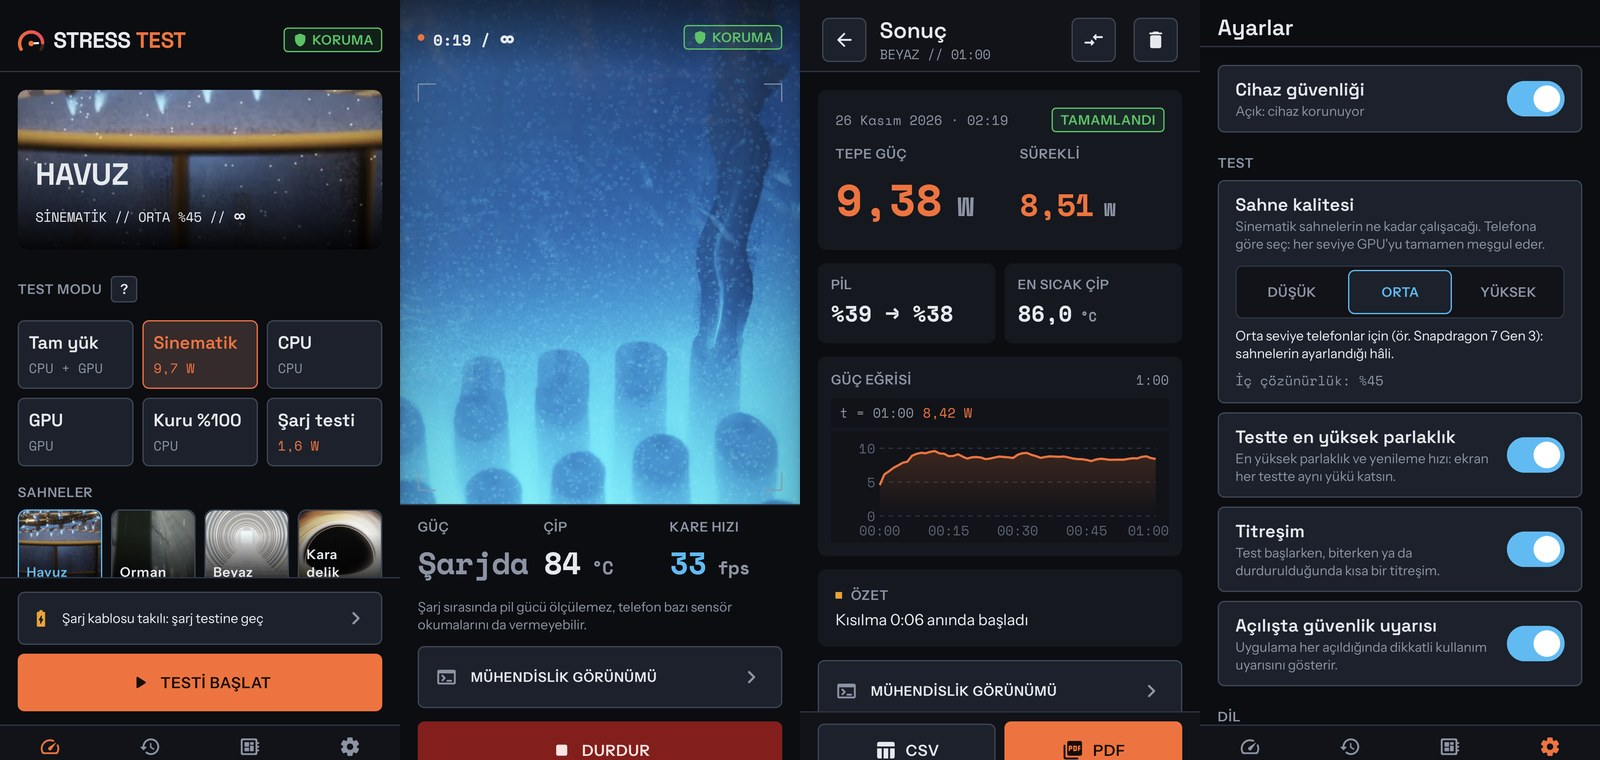
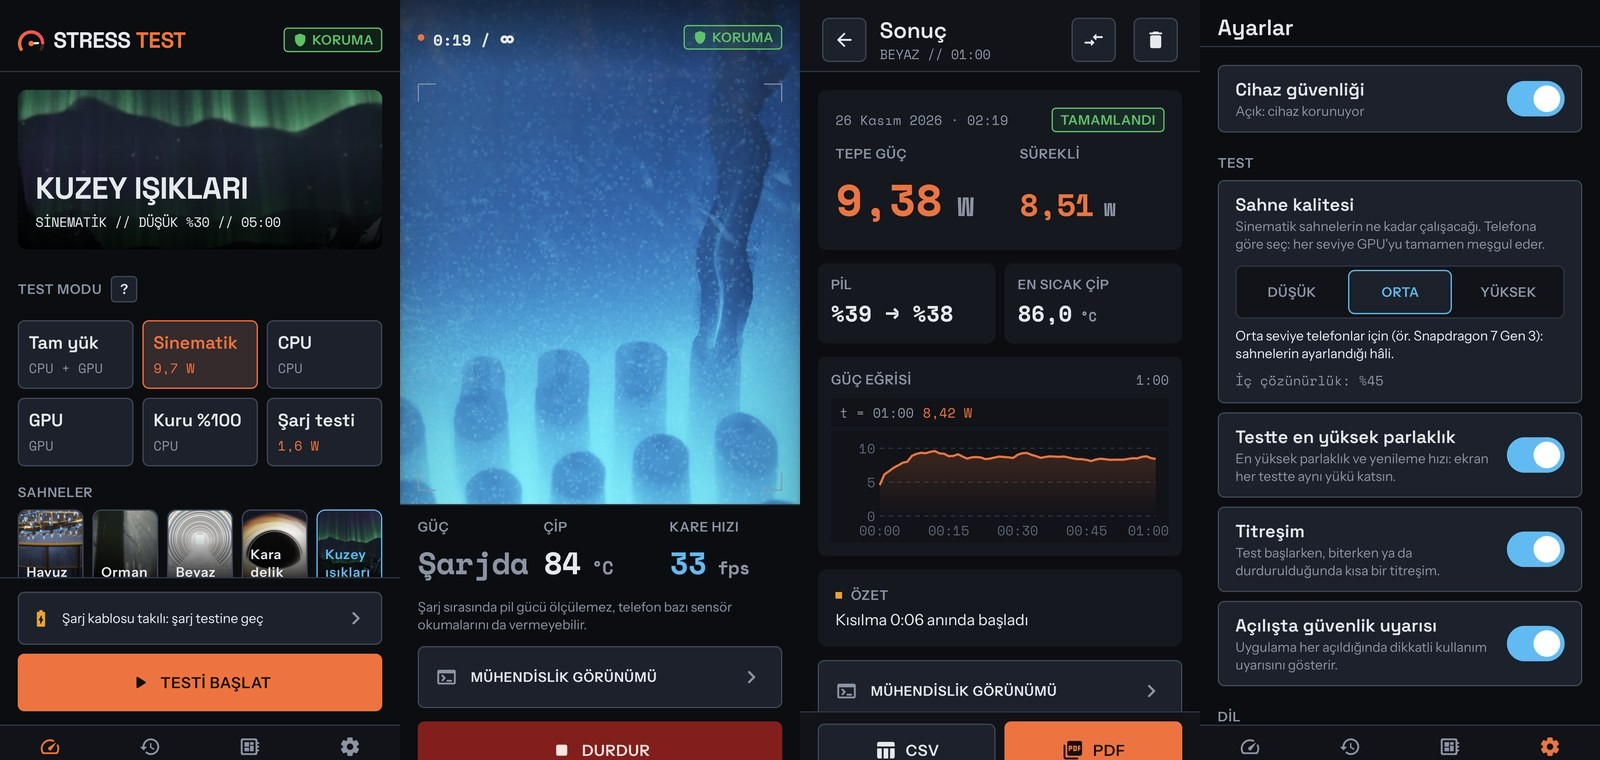
docs: open with what the tool is and bring the docs up to date
Both READMEs now open by saying this is an engineering test tool for a
phone's power, heat and performance, not a game or an entertainment app,
and that it runs the phone at full load on purpose. The cover shows all
five scenes and the app picture the current home screen. The documents
also stop saying the app asks for no permissions: 0.3.0 added the
notification permission for the charge test. Tool versions, the security
support table and the release examples follow the code.

Assisted-by: Claude Code

Changed region(s): [[0.0, 0.0908, 0.25, 0.3026], [0.0, 0.6658, 0.25, 0.7566]]

diff --git a/README.tr.md b/README.tr.md
@@ -2,11 +2,11 @@
 
 # Stress Test
 
-**Android telefonlar için stres testi ve benchmark: bir telefonun gerçekten çekebildiği en yüksek gücü bulmak, bunu yaparken de göze iyi görünmek için.**
+**Android telefonlar için mühendislik test aracı: telefonu gerçekten çekebildiği en yüksek güce kadar yükler; gücünü, ısınmasını ve performansını ölçer.**
 
 [![Derleme ve doğrulama](https://github.com/OzcanOrhanDemirci/stress_test/actions/workflows/ci.yml/badge.svg)](https://github.com/OzcanOrhanDemirci/stress_test/actions/workflows/ci.yml)
 [![Yayın](https://github.com/OzcanOrhanDemirci/stress_test/actions/workflows/release.yml/badge.svg)](https://github.com/OzcanOrhanDemirci/stress_test/actions/workflows/release.yml)
-[![Kotlin](https://img.shields.io/badge/Kotlin-2.4.20-7F52FF?logo=kotlin&logoColor=white)](https://kotlinlang.org)
+[![Kotlin](https://img.shields.io/badge/Kotlin-2.4.21-7F52FF?logo=kotlin&logoColor=white)](https://kotlinlang.org)
 [![Jetpack Compose](https://img.shields.io/badge/Jetpack%20Compose-Material%203-4285F4?logo=jetpackcompose&logoColor=white)](https://developer.android.com/compose)
 [![C++20](https://img.shields.io/badge/C%2B%2B-20-00599C?logo=cplusplus&logoColor=white)](app/src/main/cpp)
 [![AArch64 assembly](https://img.shields.io/badge/AArch64-assembly-555555)](app/src/main/cpp/cpu)
@@ -18,7 +18,7 @@
 
 Referans telefonda tam yükte **10,1 W** · aynı çekirdeklerde "kuru %100"ün **2,6 katı** güç · üç kalitede beş sinematik sahne · şarj testi · cihaz güvenliği · PDF rapor
 
-**[Son paketi indir](https://github.com/OzcanOrhanDemirci/stress_test/releases/latest)** · 64-bit Android 10 ve üstü · izin yok, hiçbir şey toplanmaz
+**[Son paketi indir](https://github.com/OzcanOrhanDemirci/stress_test/releases/latest)** · 64-bit Android 10 ve üstü · ağa çıkmaz, hiçbir şey toplanmaz
 
 [Kurulum](#kurulum) · [Uyumluluk](#uyumluluk) · [Soru](#soru) · [Sonuçlar](#sonuçlar) · [Modlar](#modlar) · [Şarj testi](#şarj-testi) · [Sahneler](#sinematik-sahneler) · [Uygulama](#uygulama) · [Cihaz güvenliği](#cihaz-güvenliği) · [Güç nasıl ölçülüyor](#güç-nasıl-ölçülüyor) · [Yük nasıl üretiliyor](#yük-nasıl-üretiliyor) · [Mimari](#mimari) · [Derleme](#derleme)
 
@@ -26,14 +26,20 @@ Referans telefonda tam yükte **10,1 W** · aynı çekirdeklerde "kuru %100"ün 
 
 <br />
 
-<img src="docs/images/cover.jpg" alt="Telefonda üç sinematik sahne: reaktör havuzu, yağmur ormanı ve beyaz dünya" width="760" />
+<img src="docs/images/cover.jpg" alt="Beş sinematik sahne: reaktör havuzu, yağmur ormanı, beyaz dünya, kara delik ve kuzey ışıkları" width="100%" />
 
 </div>
 
 ---
 
-Stress Test, Android telefonun yük altında pilden çektiği gücü ve şarj olurken
-pile giren gücü ölçer. Referans cihaz **Honor 400**. Aşağıdaki güç değerleri bu
+**Stress Test, bir Android telefonun gücünü, ısınmasını ve performansını
+mühendislik açısından incelemek için yapılmış bir test aracıdır.** Bir oyun
+değildir; son kullanıcının eğlence ya da hobi için kullanacağı bir uygulama da
+değildir. Telefonu bilerek tam yükte çalıştırır, çok ısıtır ve pilini hızla
+tüketir; amaç, telefonun bu yük altında ne yaptığını ölçmek ve karşılaştırmaktır.
+Sinematik sahneler de gösteri için değil, kare hızı ölçülen bir grafik yüküdür.
+
+Telefonun yük altında pilden çektiği gücü ve şarj olurken pile giren gücü ölçer. Referans cihaz **Honor 400**. Aşağıdaki güç değerleri bu
 telefonda ölçüldü ve stres testi yükleri bu ölçümlere göre seçildi.
 
 > [!WARNING]
@@ -295,8 +301,10 @@ ayarından da seçebilirsin.
    (sertifika [SECURITY.md](SECURITY.md#verifying-a-package)'de).
 3. Telefonda aç; Android sorduğunda bu kaynaktan yüklemeye izin ver.
 
-Telefon gereksinimleri [Uyumluluk](#uyumluluk) bölümünde. Uygulama hiçbir izin istemez
-ve ağa çıkamaz. Bu kaynaktan yayın anahtarı olmadan derlenen paket debug
+Telefon gereksinimleri [Uyumluluk](#uyumluluk) bölümünde. Uygulama ağa çıkamaz.
+Tek izni bildirim içindir: Android 13 ve üstünde şarj testi başlarken sorulur,
+yalnız testin pili doldurduğunu söylemek için kullanılır; reddetmek başka hiçbir
+şeyi değiştirmez. Bu kaynaktan yayın anahtarı olmadan derlenen paket debug
 anahtarıyla imzalanır ve ikisi birbirini güncelleyemez: birini kurmadan önce
 öbürünü kaldırmak gerekir, bu da onun test geçmişini siler.
 
@@ -467,7 +475,7 @@ bölümünde tam olarak yazılı; ölçümlerin kendisi [docs/OLCUMLER.md](docs/
 ```bash
 ./gradlew testDebugUnitTest            # JVM testleri
 ./gradlew lintDebug                    # Android Lint, hata derlemeyi düşürür
-./gradlew connectedDebugAndroidTest    # bağlı telefonda testler
+./gradlew connectedDebugAndroidTest    # bağlı telefonda testler (sonunda debug uygulamayı geçmişiyle birlikte kaldırır)
 ```
 
 JVM testleri pil gücünü, akımın birimini ve yönünü, şarj testinin adımlarını ve
@@ -476,9 +484,9 @@ karşılaştırmayı, CSV'yi ve eski kayıtların açılmasını kapsıyor. Okum
 arşivdeki 104 Honor 400 lab testinin verileri yeniden işlenerek de sınandı.
 
 Bağlı telefonda çalışan testler CPU hesaplarını, GPU yakıcılarını, sahne
-çizimini, sensörlerin bulunmasını ve yük tariflerini sınar. 0.3.0 lab
-testlerinde Honor 400 dört sahneyi de Düşük, Orta ve Yüksek'te seçilen ayarlarda
-hatasız çizdi; 0.3.0'dan sonra eklenen kuzey ışıkları da öyle. Diğer modellerin
+çizimini, sensörlerin bulunmasını ve yük tariflerini sınar. Lab
+testlerinde Honor 400 beş sahnenin hepsini Düşük, Orta ve Yüksek'te seçilen
+ayarlarda hatasız çizdi. Diğer modellerin
 uyumluluğu kâğıt üzerinde değerlendirildi.
 Şarj testi otomatik testlerle sınandı. Gerçek şarj cihazı ve kablolarla ölçüm
 henüz yapılmadı. [Ölçüm kaydı](docs/OLCUMLER.md)
@@ -530,10 +538,10 @@ python tools/scene_preview.py --scene white --times 3,18,30,44                  
 
 | Konu | Seçim |
 | --- | --- |
-| Uygulama | Kotlin 2.4.20, Material 3 ile Jetpack Compose, coroutines, kotlinx.serialization, Space Grotesk, Instrument Sans ve Space Mono |
+| Uygulama | Kotlin 2.4.21, Material 3 ile Jetpack Compose, coroutines, kotlinx.serialization, Space Grotesk, Instrument Sans ve Space Mono |
 | Yerel kod | NDK ve CMake üzerinden C++20 ve AArch64 assembly, JNI |
 | Grafik | Vulkan 1.1 (varsa 1.2 özellikleri), derleme sırasında SPIR-V 1.3'e derlenip gömülen GLSL |
-| Derleme | Gradle 9.8.0, Android Gradle Plugin 9.4.1 |
+| Derleme | Gradle 9.9.2, Android Gradle Plugin 9.5.2 |
 | SDK | derleme 37.1, hedef 36 (Android 16), en düşük 29 (Android 10) |
 | Araçlar | Node.js (lab oturumları), moderngl ile Python (sahne önizlemesi, yük üretici) |
 
@@ -542,7 +550,7 @@ python tools/scene_preview.py --scene white --times 3,18,30,44                  
 Bir etiket göndermek derler, test eder, imzalar ve yayınlar:
 
 ```bash
-git tag -a v0.3.0 -m "Stress Test 0.3.0" && git push origin v0.3.0
+git tag -a v1.0.0 -m "Stress Test 1.0.0" && git push origin v1.0.0
 ```
 
 İş akışı, `gradle.properties`'te yazılı sürümle uyuşmayan bir etiketi ya da
@@ -571,9 +579,10 @@ için bir issue formu var. Katkı belgeleri İngilizcedir.
 
 ## Durum
 
-**Kaynak kodun sürümü 0.3.0.** Bu sürümle yeni arayüz, şarj testi, kara delik
-sahnesi ve telefonlar arasındaki farklara yönelik düzeltmeler geliyor.
-[Değişiklik günlüğü](CHANGELOG.md#030--2026-11-26)
+**Sürüm 1.0.0**, ilk kararlı sürüm: şarj testiyle birlikte altı mod, üç kalitede
+beş sinematik sahne, cihaz güvenliği, PDF ve CSV raporuyla analiz ve ölçü
+aleti görünümlü arayüz. Elde denenen tek telefon Honor 400.
+[Değişiklik günlüğü](CHANGELOG.md#100---2026-11-26)
 
 ## Lisans
 

diff --git a/README.md b/README.md
@@ -2,11 +2,11 @@
 
 # Stress Test
 
-**A stress test and benchmark for Android phones, built to find the most power a phone can really draw, and to look good while it does.**
+**An engineering test tool for Android phones: it loads a phone up to the most power it can really draw, and measures its power, heat and performance.**
 
 [![Build and verify](https://github.com/OzcanOrhanDemirci/stress_test/actions/workflows/ci.yml/badge.svg)](https://github.com/OzcanOrhanDemirci/stress_test/actions/workflows/ci.yml)
 [![Release](https://github.com/OzcanOrhanDemirci/stress_test/actions/workflows/release.yml/badge.svg)](https://github.com/OzcanOrhanDemirci/stress_test/actions/workflows/release.yml)
-[![Kotlin](https://img.shields.io/badge/Kotlin-2.4.20-7F52FF?logo=kotlin&logoColor=white)](https://kotlinlang.org)
+[![Kotlin](https://img.shields.io/badge/Kotlin-2.4.21-7F52FF?logo=kotlin&logoColor=white)](https://kotlinlang.org)
 [![Jetpack Compose](https://img.shields.io/badge/Jetpack%20Compose-Material%203-4285F4?logo=jetpackcompose&logoColor=white)](https://developer.android.com/compose)
 [![C++20](https://img.shields.io/badge/C%2B%2B-20-00599C?logo=cplusplus&logoColor=white)](app/src/main/cpp)
 [![AArch64 assembly](https://img.shields.io/badge/AArch64-assembly-555555)](app/src/main/cpp/cpu)
@@ -18,7 +18,7 @@
 
 **10.1 W** at full load on the reference phone · **2.6×** the power of an "idle 100 %" on the same cores · five cinematic scenes at three quality levels · charge test · device safety · a PDF report
 
-**[Download the latest package](https://github.com/OzcanOrhanDemirci/stress_test/releases/latest)** · 64-bit Android 10 and above · no permissions, nothing collected
+**[Download the latest package](https://github.com/OzcanOrhanDemirci/stress_test/releases/latest)** · 64-bit Android 10 and above · no network access, nothing collected
 
 [Install](#install) · [Compatibility](#compatibility) · [The question](#the-question) · [Results](#results) · [Modes](#modes) · [Charge test](#charge-test) · [Scenes](#the-cinematic-scenes) · [The app](#the-app) · [Device safety](#device-safety) · [How it measures](#how-power-is-measured) · [How it loads](#how-the-load-is-made) · [Architecture](#architecture) · [Building](#building)
 
@@ -26,14 +26,21 @@
 
 <br />
 
-<img src="docs/images/cover.jpg" alt="Three cinematic scenes on the phone: the reactor pool, the rain forest and the white world" width="760" />
+<img src="docs/images/cover.jpg" alt="The five cinematic scenes: the reactor pool, the rain forest, the white world, the black hole and the northern lights" width="100%" />
 
 </div>
 
 ---
 
-Stress Test measures how much power an Android phone draws under load and how
-much reaches its battery while charging. The **Honor 400** is the reference
+**Stress Test is an engineering tool for examining an Android phone's power,
+heat and performance.** It is not a game, and it is not an app for entertainment
+or everyday use. It deliberately runs the phone at full load, makes it very hot
+and drains its battery quickly, so that what the phone does under that load can
+be measured and compared. Even the cinematic scenes are a graphics load with
+their frame rate measured, not a show.
+
+It measures how much power the phone draws under load and how much reaches its
+battery while charging. The **Honor 400** is the reference
 device. The power figures below come from that phone, and its measurements
 guided the choice of stress loads.
 
@@ -298,8 +305,10 @@ per-app language settings.
 3. Open it on the phone, and allow installing from that source when Android
    asks.
 
-See [Compatibility](#compatibility) for phone requirements. The app asks for no
-permissions and cannot reach the network. A package built from this source
+See [Compatibility](#compatibility) for phone requirements. The app cannot
+reach the network. Its one permission is for notifications, asked for when a
+charge test starts on Android 13 and later, and used only to say that the test
+filled the battery; declining it changes nothing else. A package built from this source
 without the release key is signed with a debug key, and the two cannot update
 each other: uninstall one before installing the other, which also removes its
 test history.
@@ -468,7 +477,7 @@ with the measurement that settled it; the measurements themselves are in
 ```bash
 ./gradlew testDebugUnitTest            # JVM tests
 ./gradlew lintDebug                    # Android Lint, errors fail the build
-./gradlew connectedDebugAndroidTest    # tests on a connected phone
+./gradlew connectedDebugAndroidTest    # tests on a connected phone (uninstalls the debug app afterwards, with its history)
 ```
 
 JVM tests cover battery power and current conventions, charge-test phases and
@@ -477,9 +486,9 @@ and loading old records. The telemetry changes were also checked by replaying
 104 archived Honor 400 lab tests. That replay used existing measurements.
 
 The instrumented suite checks CPU work, GPU burners, scene rendering, sensor
-discovery and load recipes on a connected phone. In the 0.3.0 lab checks on the
-Honor 400, all four scenes reached the requested settings at Low, Medium and
-High with zero errors, and so did the northern lights, added after 0.3.0.
+discovery and load recipes on a connected phone. In lab checks on the Honor 400,
+all five scenes reached the requested settings at Low, Medium and High with
+zero errors.
 Compatibility on other models was assessed on paper.
 The charging test has automated coverage. Measurements with real chargers and
 cables are pending. [Measurement log](docs/OLCUMLER.md)
@@ -530,10 +539,10 @@ python tools/scene_preview.py --scene white --times 3,18,30,44                  
 
 | Concern | Choice |
 | --- | --- |
-| App | Kotlin 2.4.20, Jetpack Compose with Material 3, coroutines, kotlinx.serialization, Space Grotesk, Instrument Sans and Space Mono |
+| App | Kotlin 2.4.21, Jetpack Compose with Material 3, coroutines, kotlinx.serialization, Space Grotesk, Instrument Sans and Space Mono |
 | Native | C++20 and AArch64 assembly through the NDK and CMake, JNI |
 | Graphics | Vulkan 1.1 (1.2 features where present), GLSL compiled to SPIR-V 1.3 at build time and embedded |
-| Build | Gradle 9.8.0, Android Gradle Plugin 9.4.1 |
+| Build | Gradle 9.9.2, Android Gradle Plugin 9.5.2 |
 | SDK | compile 37.1, target 36 (Android 16), minimum 29 (Android 10) |
 | Tools | Node.js (lab sessions), Python with moderngl (scene preview, kernel generator) |
 
@@ -542,7 +551,7 @@ python tools/scene_preview.py --scene white --times 3,18,30,44                  
 Pushing a tag builds, tests, signs and publishes:
 
 ```bash
-git tag -a v0.3.0 -m "Stress Test 0.3.0" && git push origin v0.3.0
+git tag -a v1.0.0 -m "Stress Test 1.0.0" && git push origin v1.0.0
 ```
 
 The pipeline refuses to publish a tag that disagrees with the version declared
@@ -572,9 +581,11 @@ there is an issue form for them.
 
 ## Status
 
-**Source version 0.3.0.** This version brings the redesigned interface, the
-charge test, the black hole scene and better handling of differences between
-phones. [Changelog](CHANGELOG.md#030--2026-11-26)
+**Version 1.0.0**, the first stable release: six modes including the charge
+test, five cinematic scenes at three quality levels, device safety, the analysis
+with its PDF and CSV report, and the instrument-style interface. The Honor 400
+is the only phone it was tested on in hand.
+[Changelog](CHANGELOG.md#100---2026-11-26)
 
 ## Licence
 

diff --git a/SECURITY.md b/SECURITY.md
@@ -5,15 +5,17 @@
 Knowing the shape of the application is most of the answer to what can go wrong
 with it, so it is worth stating plainly.
 
-- **It asks for no permissions.** The manifest declares none. One appears in the
-  built package, `dev.ozcan.stress.DYNAMIC_RECEIVER_NOT_EXPORTED_PERMISSION`: it
-  is added during the build by `androidx.core`, it is declared at the
+- **It asks for one permission, to post notifications.** It is asked for when a
+  charge test starts, on Android 13 and later, and used only to say that the
+  test filled the battery; declining it changes nothing else. One more appears
+  in the built package, `dev.ozcan.stress.DYNAMIC_RECEIVER_NOT_EXPORTED_PERMISSION`:
+  it is added during the build by `androidx.core`, it is declared at the
   `signature` protection level and it is named after this application, so
-  nothing outside this package can hold it. That one is all of them, and reading
-  them out of the package is the way to confirm it:
+  nothing outside this package can hold it. Those two are all of them, and
+  reading them out of the package is the way to confirm it:
 
   ```bash
-  aapt2 dump permissions stress-test-0.2.0.apk
+  aapt2 dump permissions stress-test-1.0.0.apk
   ```
 
 - **It cannot reach the network.** Without the `INTERNET` permission there is no
@@ -61,8 +63,8 @@ The most recent release is the supported one. Older versions receive nothing.
 
 | Version | Supported |
 | --- | --- |
-| 0.2.x | Yes |
-| < 0.2 | No |
+| 1.0.x | Yes |
+| < 1.0 | No |
 
 ## Reporting a vulnerability
 
@@ -88,7 +90,7 @@ Every release is signed with the same key. Before installing a package that
 claims to be this application, check what signed it:
 
 ```bash
-apksigner verify --print-certs stress-test-0.2.0.apk
+apksigner verify --print-certs stress-test-1.0.0.apk
 ```
 
 The certificate should read:

diff --git a/docs/FDROID.md b/docs/FDROID.md
@@ -21,7 +21,7 @@ takes from this repository:
    summary and descriptions (README.md has them, in English), and the
    versions to build.
 2. The build server honours the versions the project pins itself:
-   the Gradle wrapper (9.8.0), the Android Gradle Plugin (9.4.1) and
+   the Gradle wrapper (9.9.2), the Android Gradle Plugin (9.5.2) and
    `ndkVersion` (29.0.14206865) are all declared in the repository, and
    AGP installs exactly that NDK. The kernels' assembly is built by the
    assembler the measurements were made with, so a build that swapped

diff --git a/docs/RELEASE.md b/docs/RELEASE.md
@@ -21,9 +21,9 @@ Pushing a tag that starts with `v` runs `.github/workflows/release.yml`, which:
 10. Deletes the key.
 
 ```bash
-# gradle.properties says stress.versionName=0.3.0 and CHANGELOG.md has a [0.3.0] section
-git tag -a v0.3.0 -m "Stress Test 0.3.0"
-git push origin v0.3.0
+# gradle.properties says stress.versionName=1.0.0 and CHANGELOG.md has a [1.0.0] section
+git tag -a v1.0.0 -m "Stress Test 1.0.0"
+git push origin v1.0.0
 ```
 
 The same workflow can be started by hand from the Actions tab. That is a dry
